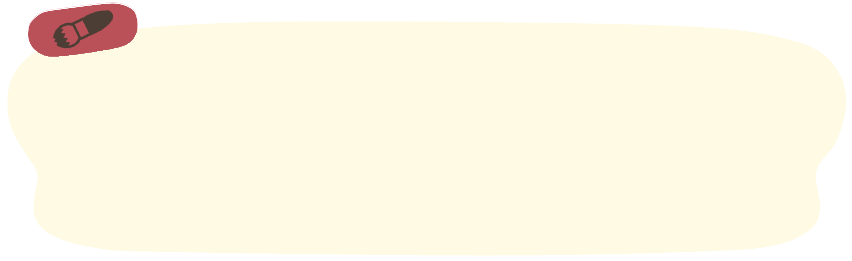
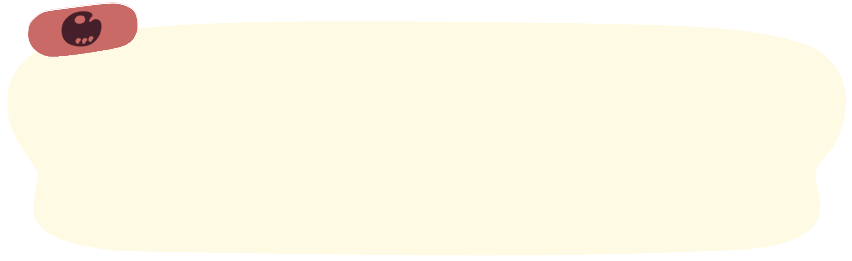
Cambios en listados

Changed region(s): [[0.0305, 0.0, 0.1831, 0.2146]]

diff --git a/project/myCrossing/src/app/cat-fosil/cat-fosil.component.css b/project/myCrossing/src/app/cat-fosil/cat-fosil.component.css
@@ -7,7 +7,7 @@ span{
   }
 
   .content-wrapper-bot{
-    background-color: #e2d4b9;
+    background-color: #b39d74;
   }
 
   .pag-menu{
@@ -85,11 +85,11 @@ span{
   }
 
 .bg-scroll-1{
-  background-image: url("../../assets/images/pez-bg-0.png");
+  background-image: url("../../assets/images/fosil-bg-0.png");
 }
 
 .bg-scroll-2{
-  background-image: url("../../assets/images/pez-bg-1.png");
+  background-image: url("../../assets/images/fosil-bg-1.png");
 }
 
 .no-result{
@@ -101,9 +101,9 @@ span{
 }
 
 .burbuja-title{
-  background-image: url("../../assets/images/bubble-pez.png");
+  background-image: url("../../assets/images/bubble-fosil.png");
 }
 
 :host{
-  background-color: #e2d4b9;
+  background-color: #b39d74;
 }

diff --git a/project/myCrossing/src/app/cat-criaturas-marinas/cat-criaturas-marinas.component.css b/project/myCrossing/src/app/cat-criaturas-marinas/cat-criaturas-marinas.component.css
@@ -150,12 +150,12 @@ h2, span{
 }
 
 .bg-scroll-1{
-  background-image: url("../../assets/images/pez-bg-0.png");
+  background-image: url("../../assets/images/crit-marina-bg-0.png");
 }
 
 
 .bg-scroll-2{
-  background-image: url("../../assets/images/pez-bg-1.png");
+  background-image: url("../../assets/images/crit-marina-bg-1.png");
 }
 
 .no-result{
@@ -166,7 +166,7 @@ h2, span{
   box-shadow: 0px 0px 15px -5px rgb(23 23 23 / 55%);
 }
 .burbuja-title{
-  background-image: url("../../assets/images/bubble-pez.png");
+  background-image: url("../../assets/images/bubble-crit-marina.png");
 }
 
 :host{

diff --git a/project/myCrossing/src/app/cat-insectos/cat-insectos.component.css b/project/myCrossing/src/app/cat-insectos/cat-insectos.component.css
@@ -131,12 +131,12 @@ h2, span{
 }
 
 .bg-scroll-1{
-  background-image: url("../../assets/images/pez-bg-0.png");
+  background-image: url("../../assets/images/insecto-bg-0.png");
 }
 
 
 .bg-scroll-2{
-  background-image: url("../../assets/images/pez-bg-1.png");
+  background-image: url("../../assets/images/insecto-bg-1.png");
 }
 
 .no-result{
@@ -152,7 +152,7 @@ h2, span{
 }
 
 .burbuja-title{
-  background-image: url("../../assets/images/bubble-pez.png");
+  background-image: url("../../assets/images/bubble-insecto.png");
 }
 
 .wrap-scale:hover{

diff --git a/project/myCrossing/src/app/cat-vecinos/cat-vecinos.component.css b/project/myCrossing/src/app/cat-vecinos/cat-vecinos.component.css
@@ -136,11 +136,11 @@ h2, span{
 }
 
 .bg-scroll-1{
-  background-image: url("../../assets/images/pez-bg-0.png");
+  background-image: url("../../assets/images/vecino-bg-0.png");
 }
 
 .bg-scroll-2{
-  background-image: url("../../assets/images/pez-bg-1.png");
+  background-image: url("../../assets/images/vecino-bg-1.png");
 }
 
 .no-result{
@@ -152,7 +152,7 @@ h2, span{
 }
 
 .burbuja-title{
-  background-image: url("../../assets/images/bubble-pez.png");
+  background-image: url("../../assets/images/bubble-vecino.png");
 }
 
 :host{
